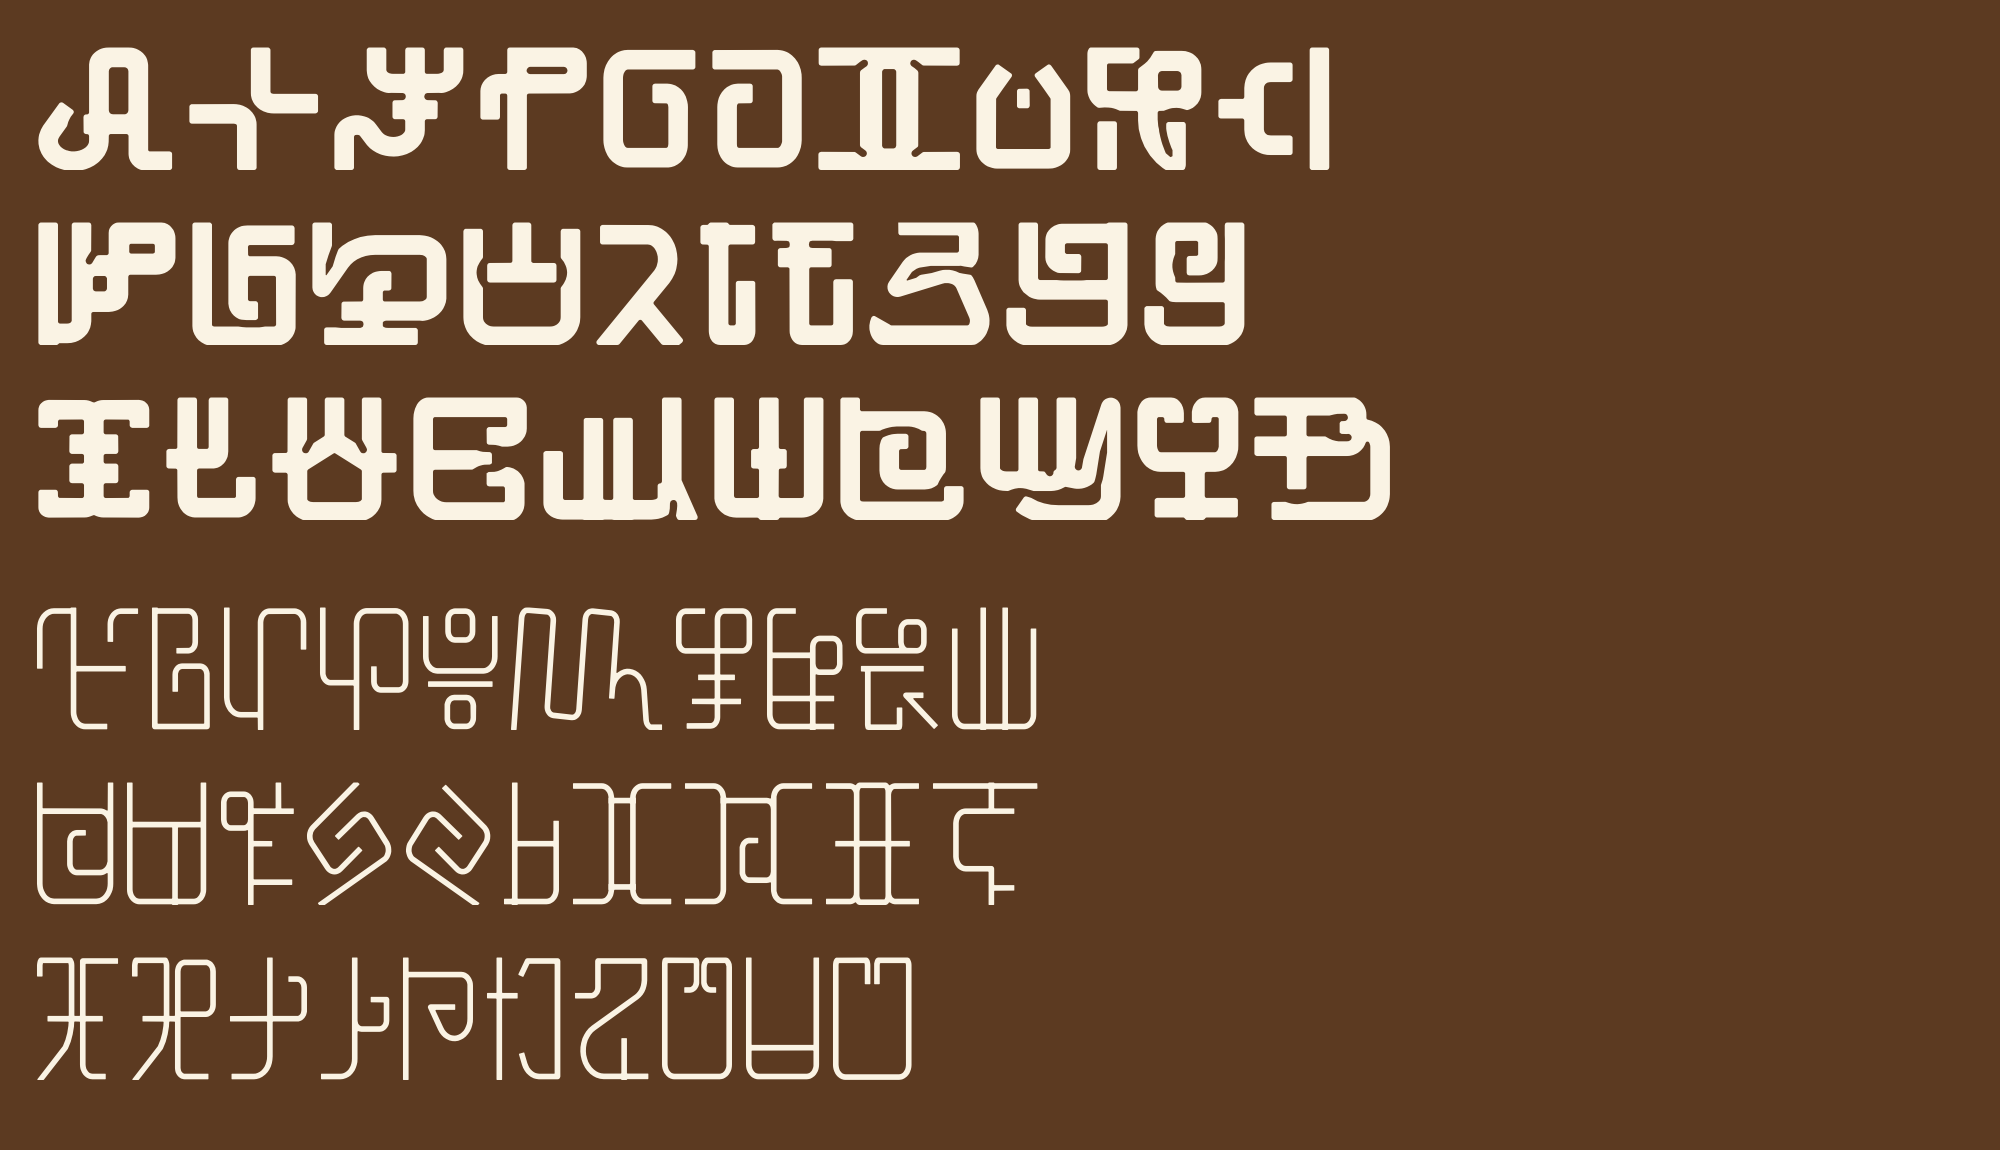
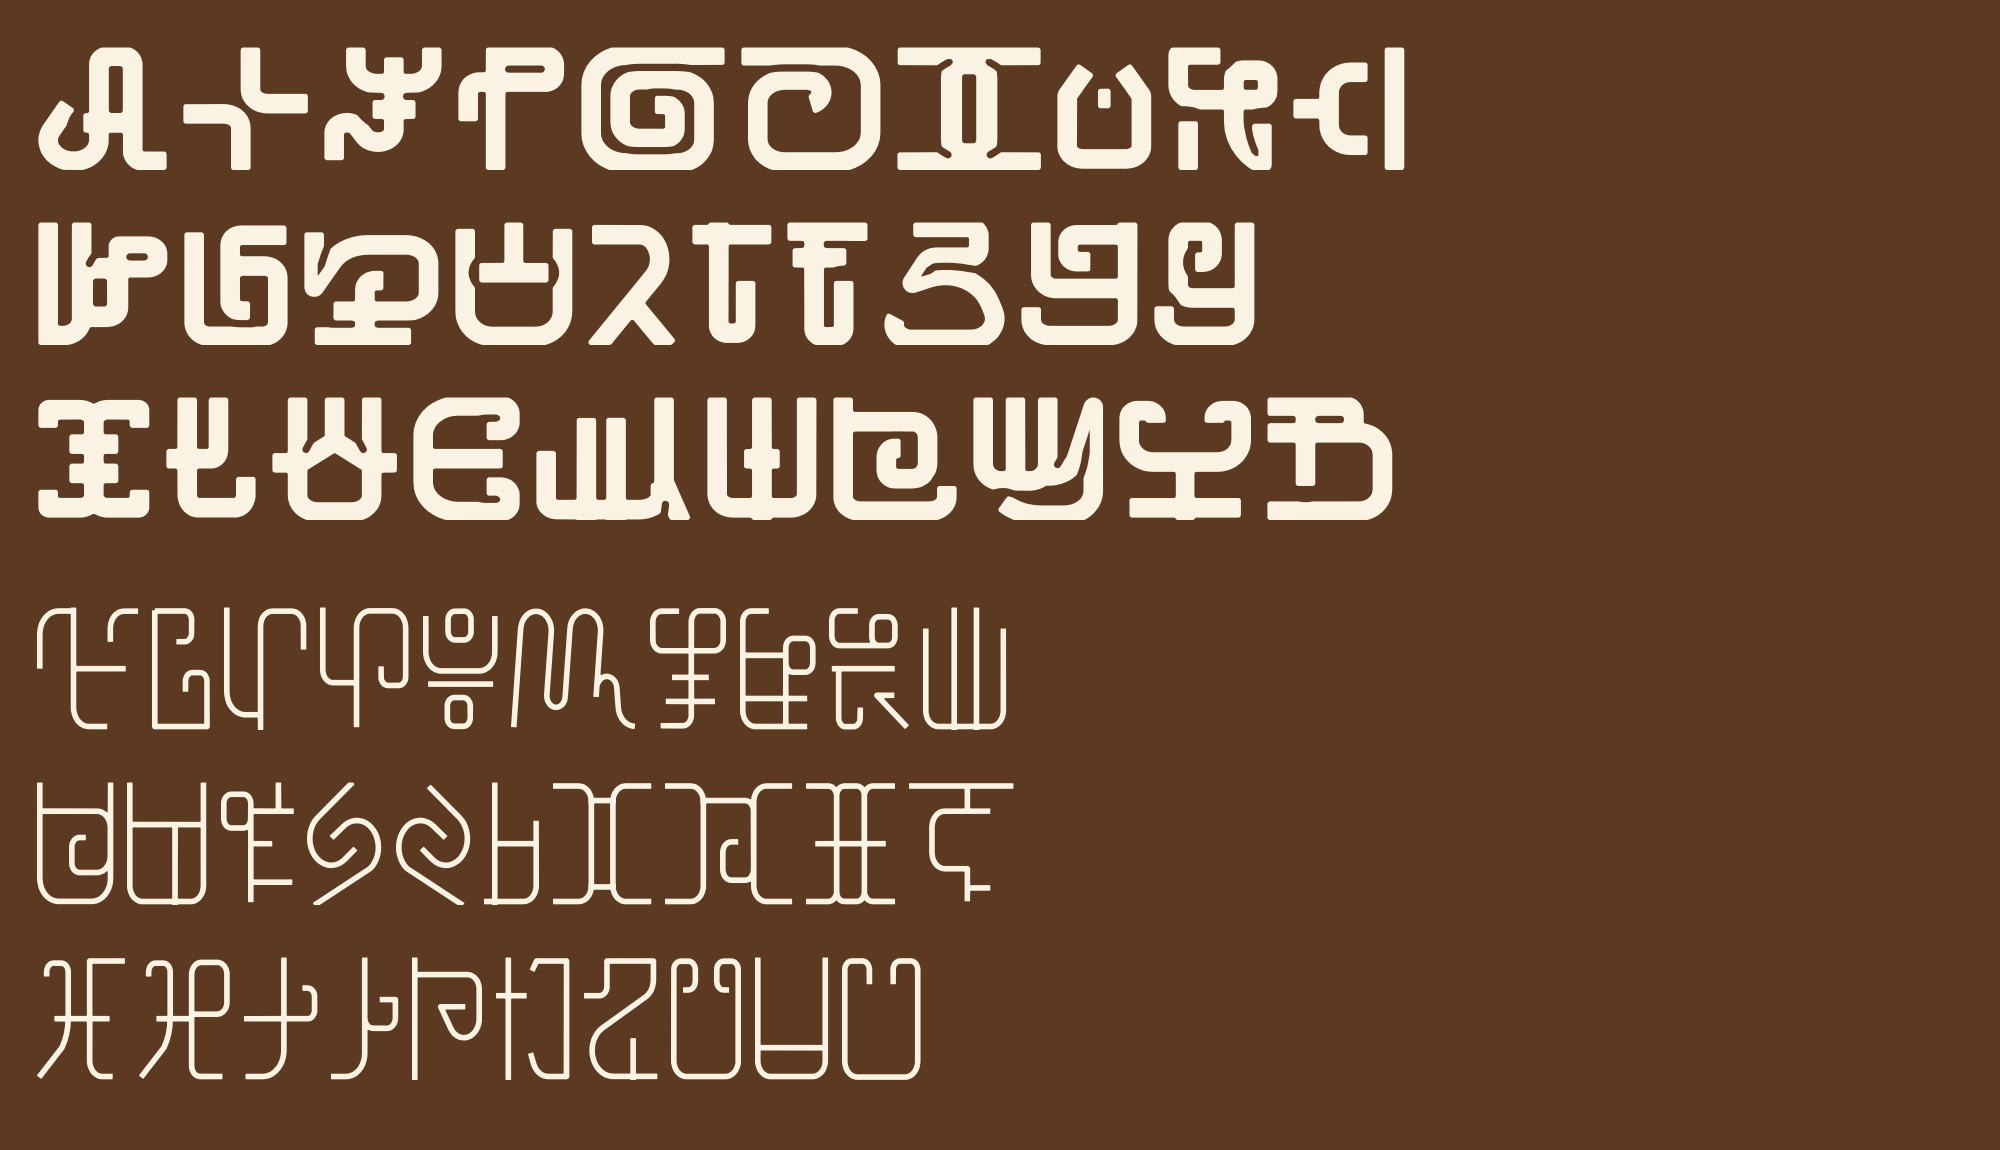
Kɔradin Eyes: fɔ / se / sɛ revised (turns squared only when Thin keeps every contact, diagonal turns stay round, Thin draws its own counters), Black rebuilt from this Thin (pieces of one stroke move as one, round joints); 63/63 topology
Claude-Session: https://claude.ai/code/session_01UantNMAVhfM7WEVtYsjyCg

diff --git a/src/eyes2/relax.py b/src/eyes2/relax.py
@@ -11,7 +11,10 @@ def relax(S0, S, sid, strokes, far, W, Wthin, gap, iters=None):
     """every stroke moves as a whole (translate) and may stretch (scale about its centre); junctions hold;
     separate parts are pushed to clearance; least squares. What the stretch cannot solve, the cuts do."""
     from scipy.optimize import least_squares
-    P0 = S.copy(); n = len(P0); ns = sid.max() + 1
+    P0 = S.copy(); n = len(P0)
+    # pieces of one drawn stroke (rings, loops, spirals are stored in pieces) move as one
+    gof = np.array([st.get("group", i) for i, st in enumerate(strokes)]); _, gof = np.unique(gof, return_inverse=True)
+    sid_s = sid; sid = gof[sid_s]; ns = sid.max() + 1
     hw_s = []
     for st in strokes:
         cl = np.asarray(st["cl"], float); L = np.hypot(*np.diff(cl, axis=0).T).sum() if len(cl) > 1 else 1
@@ -19,7 +22,7 @@ def relax(S0, S, sid, strokes, far, W, Wthin, gap, iters=None):
         except Exception: A = W * L
         hw_s.append(min(W / 2 * 1.05, max(W * 0.15, A / (2 * max(L, 1)))))
     hw_s = [W / 2 * st.get("wk", 1) for st in strokes]       # one weight for every stroke (monoline)
-    hw = np.array([hw_s[i] for i in sid])
+    hw = np.array([hw_s[i] for i in sid_s])
     C = np.array([P0[sid == i].mean(axis=0) for i in range(ns)])
     pinB = P0[:, 1] <= W / 2 + 6; pinT = P0[:, 1] >= BH - W / 2 - 6
     hasB = np.array([pinB[sid == i].any() for i in range(ns)]); hasT = np.array([pinT[sid == i].any() for i in range(ns)])
@@ -27,6 +30,7 @@ def relax(S0, S, sid, strokes, far, W, Wthin, gap, iters=None):
         if hasB[i] and not hasT[i]: C[i, 1] = P0[sid == i][:, 1].min()
         elif hasT[i] and not hasB[i]: C[i, 1] = P0[sid == i][:, 1].max()
     T = far.touch.tocoo(); J = np.array([(i, j) for i, j in zip(T.row, T.col) if sid[i] != sid[j]], int).reshape(-1, 2)
+    Jp = set(int(i) for i, j in zip(T.row, T.col) if sid_s[i] != sid_s[j]) | set(int(j) for i, j in zip(T.row, T.col) if sid_s[i] != sid_s[j])
     Jself = set(int(i) for i, j in zip(T.row, T.col) if sid[i] == sid[j] and abs(i - j) > 3) | set(int(j) for i, j in zip(T.row, T.col) if sid[i] == sid[j] and abs(i - j) > 3)
     RJ = P0[J[:, 1]] - P0[J[:, 0]] if len(J) else np.zeros((0, 2))
     need_all = hw[:, None] + hw[None, :] + gap
@@ -75,14 +79,14 @@ def relax(S0, S, sid, strokes, far, W, Wthin, gap, iters=None):
     sol = least_squares(res, x0, bounds=(lo, hi), x_scale=np.r_[np.tile([W, W, 1, 1], ns), 1], max_nfev=300)
     P = place(sol.x)
     # retract free ends that still crowd a separate part (shorter strokes instead of bites)
-    alive = np.ones(n, bool); tree = cKDTree(P); Jset = set(J.ravel().tolist()) | Jself
-    for i in range(ns):
-        idx = np.where(sid == i)[0]
+    alive = np.ones(n, bool); tree = cKDTree(P); Jset = set(J.ravel().tolist()) | Jself | Jp
+    for i in range(len(strokes)):
+        idx = np.where(sid_s == i)[0]
         if len(idx) < 4 or np.hypot(*(P0[idx[0]] - P0[idx[-1]])) < 2 * hw[idx[0]]: continue   # closed strokes (rings) have no ends
         L = np.r_[0, np.cumsum(np.hypot(*np.diff(P[idx], axis=0).T))]
         for end in (0, 1):
             order = idx if end == 0 else idx[::-1]; Lo = L if end == 0 else L[-1] - L[::-1]
-            if _cut_end(strokes[i], 0 if end == 0 else -1): continue
+            if _cut_end(strokes[i], 0 if end == 0 else -1) or strokes[i].get("joints", [False, False])[end]: continue
             if any(j in Jset for j, l in zip(order, Lo) if l < 0.6 * W): continue     # a junction end: keep
             k = 0
             while k < len(order) - 1 and Lo[k] < 0.9 * W and (L[-1] - Lo[k]) > 1.4 * W:
@@ -92,7 +96,7 @@ def relax(S0, S, sid, strokes, far, W, Wthin, gap, iters=None):
     # rebuild the heavy strokes around the relaxed centrelines
     lines, polys = [], []
     for i in range(len(strokes)):
-        Q = P[(sid == i) & alive]
+        Q = P[(sid_s == i) & alive]
         if len(Q) < 2: continue
         Q = Q.copy()
         for end, nb in ((0, 1), (-1, -2)):            # ends on the body lines: run past, cut flat by the clip
@@ -100,7 +104,11 @@ def relax(S0, S, sid, strokes, far, W, Wthin, gap, iters=None):
             if abs(t[1]) > 0.2 and (Q[end][1] < W * 0.8 or Q[end][1] > BH - W * 0.8) and _cut_end(strokes[i], end):
                 Q = np.vstack([Q, Q[-1] + t * W]) if end == -1 else np.vstack([Q[0] + t * W, Q])
         lines.append(Q.tolist())
-        polys.append(LineString(Q).buffer(hw_s[i], cap_style=2, join_style=1, quad_segs=8))
+        pg = LineString(Q).buffer(hw_s[i], cap_style=2, join_style=1, quad_segs=8)
+        from shapely.geometry import Point as _Pt
+        for j, at in zip(strokes[i].get("joints", [False, False]), (Q[0], Q[-1])):
+            if j: pg = pg.union(_Pt(at).buffer(hw_s[i], quad_segs=16))
+        polys.append(pg)
     raw = unary_union(polys).intersection(box(-2000, 0, 3000, BH))
     return P, raw, lines, alive
 

diff --git a/src/eyes2/transform.py b/src/eyes2/transform.py
@@ -84,7 +84,33 @@ def open_hairpins(strokes):
                 if signature(trial) == base: strokes = trial; break
     return strokes
 
+def square_stroke(st, start_h):
+    """square the right-angle turns that start on an axis (a turn on a diagonal stays round: se, sɛ)"""
+    h = start_h; out = []
+    for g in st["segs"]:
+        if g["t"] == "A":
+            on_axis = min(abs(((h % 90) + 90) % 90), 90 - abs(((h % 90) + 90) % 90)) < 5
+            out += square_arc(g) if on_axis else [g]; h += g["ang"]
+        else:
+            if g["t"] == "C": h += g["ang"]
+            out.append(g)
+    return out
+
 def transform(strokes):
+    """square each turn only if Thin keeps every contact, part and counter (fɔ: the inner curl stays on the bowl)"""
+    base = signature(strokes); res = [dict(st) for st in strokes]
+    for i, st in enumerate(strokes):
+        trial = [dict(s) for s in res]; trial[i] = dict(st, segs=merge_lines(square_stroke(st, st["h"])))
+        if signature(trial) == base: res = trial
+        else:                                    # try turn by turn
+            for j, g in enumerate(st["segs"]):
+                if g["t"] != "A": continue
+                segs = [dict(x) for x in res[i]["segs"]] if res[i] is not st else [dict(x) for x in st["segs"]]
+                # locate this arc in the current segs by order among arcs of the original
+                pass
+    return res
+
+def _old_transform(strokes):
     res = []
     # fidelity to the akrokerri mod: no re-spacing of spirals, no opened hairpins (both moved whole parts);
     # only the turns are restyled, every junction point and end stays where it was drawn

diff --git a/src/eyes2/engine.py b/src/eyes2/engine.py
@@ -220,12 +220,12 @@ def build(strokes, thin, W, Wthin, gap, ro, ri, eye_min=0.55, relax=False, key=N
         for r in p.interiors:
             H = Polygon(r)
             island = any(H.contains(q.representative_point()) for q in polys(A) if q is not p)
-            eye = None if island or H.area < (0.25 * W) ** 2 else uniform(fit_eye(H), W)
+            eye = None if island or H.area < (0.25 * W) ** 2 or W <= Wthin else uniform(fit_eye(H), W)
             if eye is not None and eye.area >= eye_min * H.area: holes.append(eye); eyes.append(eye)
             else: holes.append(H)
         out.append(Polygon(p.exterior).difference(unary_union(holes)) if holes else Polygon(p.exterior))
     A = unary_union(out)
-    for e in thin_eyes(lines_w, W, Wthin, max(30, 0.42 * W)):
+    for e in (thin_eyes(lines_w, W, Wthin, max(30, 0.42 * W)) if W > Wthin else []):   # Thin is the reference: its counters are what its strokes leave
         if not any(h.intersects(e.centroid) for p in polys(A) for h in [Polygon(r) for r in p.interiors]):
             A = A.difference(e)
     if cut is not None: A = A.difference(cut)

diff --git a/src/eyes2/stretch.py b/src/eyes2/stretch.py
@@ -8,7 +8,8 @@ def split_closed(strokes):
     """a stroke that turns more than 200 degrees (a ring, a loop, a spiral) is stored as consecutive pieces of at
     most 200 degrees each: one outline per piece, no piece overlaps itself, so loops keep their counters"""
     out = []
-    for st in strokes:
+    for gid, st in enumerate(strokes):
+        st = dict(st, group=gid)
         Q = np.asarray(st["cl"], float)
         if len(Q) < 4: out.append(st); continue
         h = np.unwrap(np.arctan2(*np.diff(Q, axis=0).T[::-1])); cuts = [0]; acc = 0.0
@@ -18,7 +19,7 @@ def split_closed(strokes):
         cuts.append(len(Q) - 1)
         if len(cuts) == 2: out.append(st); continue
         for n, (a, b) in enumerate(zip(cuts, cuts[1:])):
-            out.append(dict(st, cl=Q[a:b + 1].tolist(), piece=True, joints=[n > 0, n < len(cuts) - 2]))
+            out.append(dict(st, cl=Q[a:b + 1].tolist(), piece=True, joints=[n > 0, n < len(cuts) - 2], group=gid))
     return out
 
 for k in D["keys"]:

diff --git a/src/eyes2/dbg.py b/src/eyes2/dbg.py
@@ -1,6 +1,6 @@
 import json, sys, engine
 from PIL import Image, ImageDraw
-D = json.load(open("/tmp/claude-0/rad3.json")); k = sys.argv[1]; W = sys.argv[2] if len(sys.argv) > 2 else "140"
+D = json.load(open("/tmp/claude-0/rad4.json")); k = sys.argv[1]; W = sys.argv[2] if len(sys.argv) > 2 else "140"
 P = engine.PRESETS[int(W)]
 g, dbg = engine.build(D["G"][k][W], D["G"][k]["40"], float(W), 40., key=k, **P)
 im = Image.new("RGB", (900, 900), (255, 255, 255)); d = ImageDraw.Draw(im); s = 0.95
